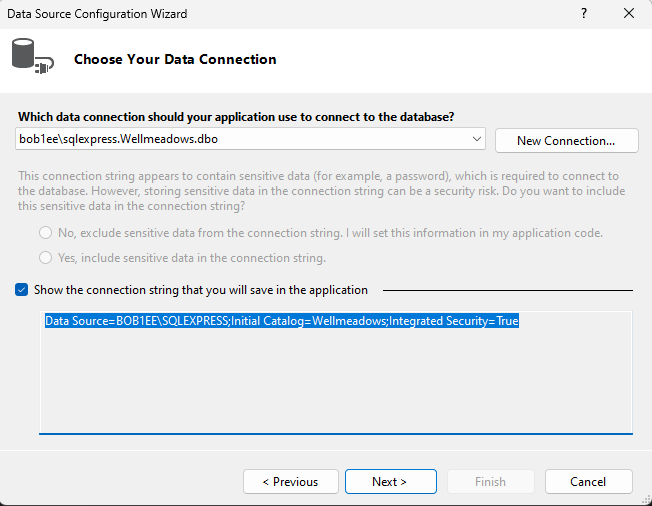
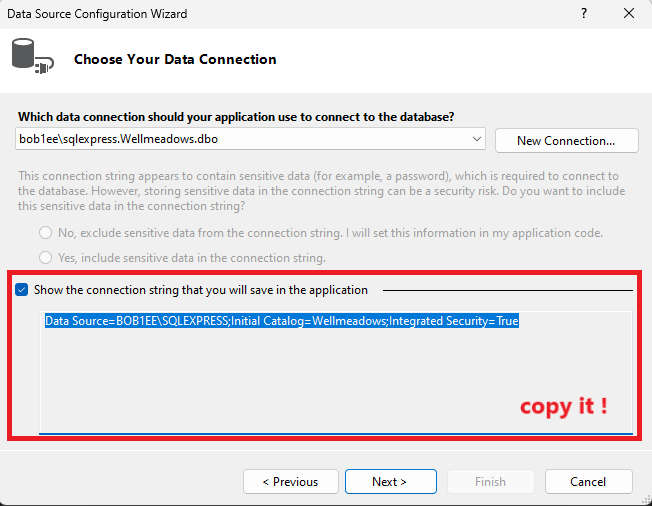
update master final round (really?)

Changed region(s): [[0.0, 0.5336, 1.0, 0.8893]]

diff --git a/README.md b/README.md
@@ -849,16 +849,14 @@ Name ให้ทำการ Copy ข้อความนั้นมาดั
 
 ![image](./image/4.png)
 
-
-
-
-9. เลือกว่าแอปพลิเคชันจะดึงข้อมูลมาจากที่ไหน โดยเราจะดึงข้อมูลมาจาก Database จากนั้นกด Next จากนั้นเลือก Dataset และ กด Next ดังภาพด้านล่างนี้: 
+9.1 เลือกว่าแอปพลิเคชันจะดึงข้อมูลมาจากที่ไหน โดยเราจะดึงข้อมูลมาจาก Database จากนั้นกด Next จากนั้นเลือก Dataset และ กด Next ดังภาพด้านล่างนี้: 
 
 ![image](./image/5.png)
 
 10. เลือก Data Connection โดยเลือก Wellmeadows ที่ได้จากการเชื่อมก่อนหน้าจากนั้นกด Next 
 หรือหากต้องการเชื่อมตัวอื่นให้ทำการกด New Connection แล้วทำการเชื่อมต่อ Data Connection ที่
-ต้องการอีกรอบ
+ต้องการอีกรอบ และให้กดเลือก `show the connection string that you will have save on the application` ในกรณีที่โปรแกรมไม่ได้เลือกให้แต่แรก
+จากนั้นให้ copy connection string ที่โชว์ขึ้นมาเก็บไว้เพื่อใช้ในโปรแกรม
 
 ![image](./image/6.png)
 
@@ -866,4 +864,11 @@ Name ให้ทำการ Copy ข้อความนั้นมาดั
 
 ![image](./image/7.png)
 
-12. เสร็จสิ้นกระบวนการทั้งหมดเรียบร้อยแล้ว สามารถที่จะเริ่มต้นการรันโปรแกรมได้เลย!!!
+12. จากนั้นไปที่แท็ป Solution Explorer แล้วหาไฟล์ชื่อ `sqlConnString.vb` และเปิดขึ้นมา
+
+ ![image](./image/8.png)
+ 
+13. จากนั้นวาง sql connection string ที่ copy ไว้ตอนเพิ่ม data source ไว้ข้างใน double quote ของตัวแปร `sqlConn` ดังรูปภาพ
+
+![image](./image/9.png)
+14. กดรันเพื่อใช้งานโปรแกรมได้เลย !
